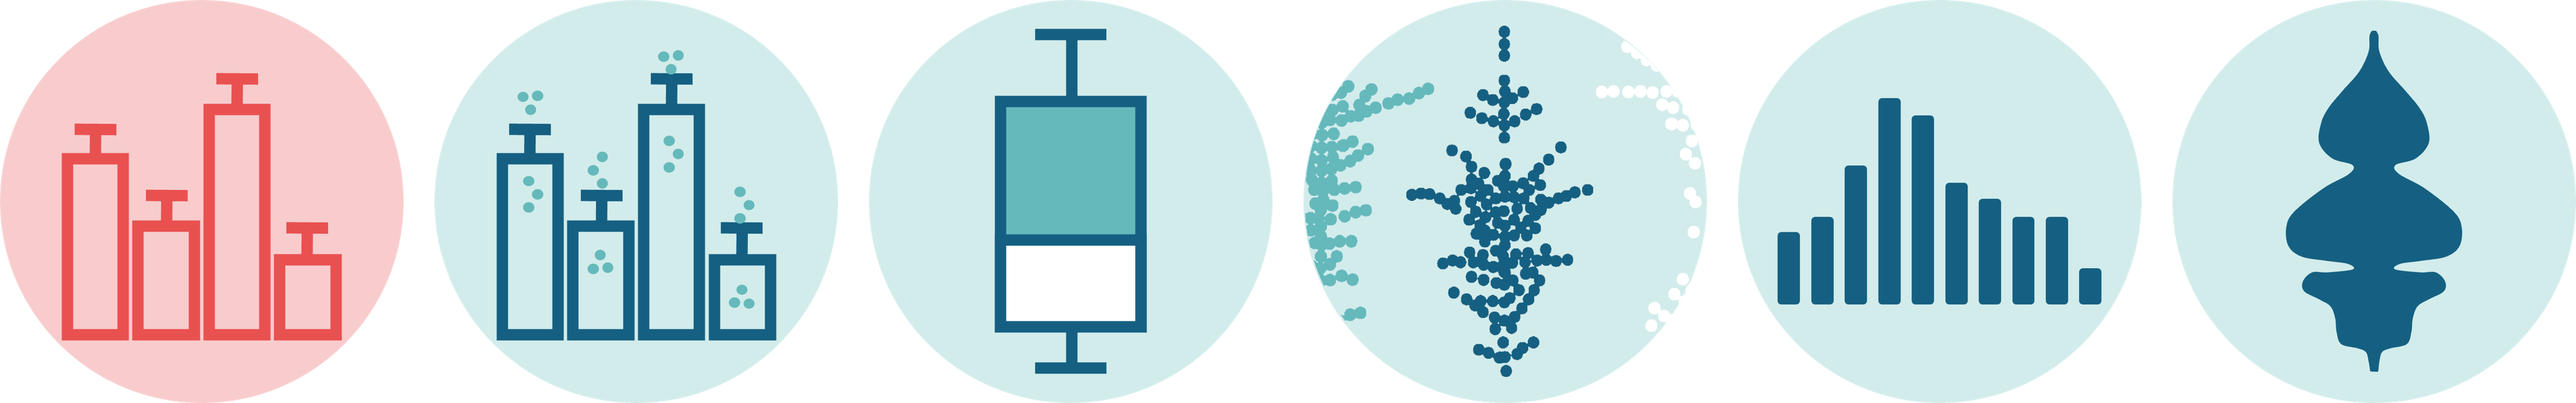
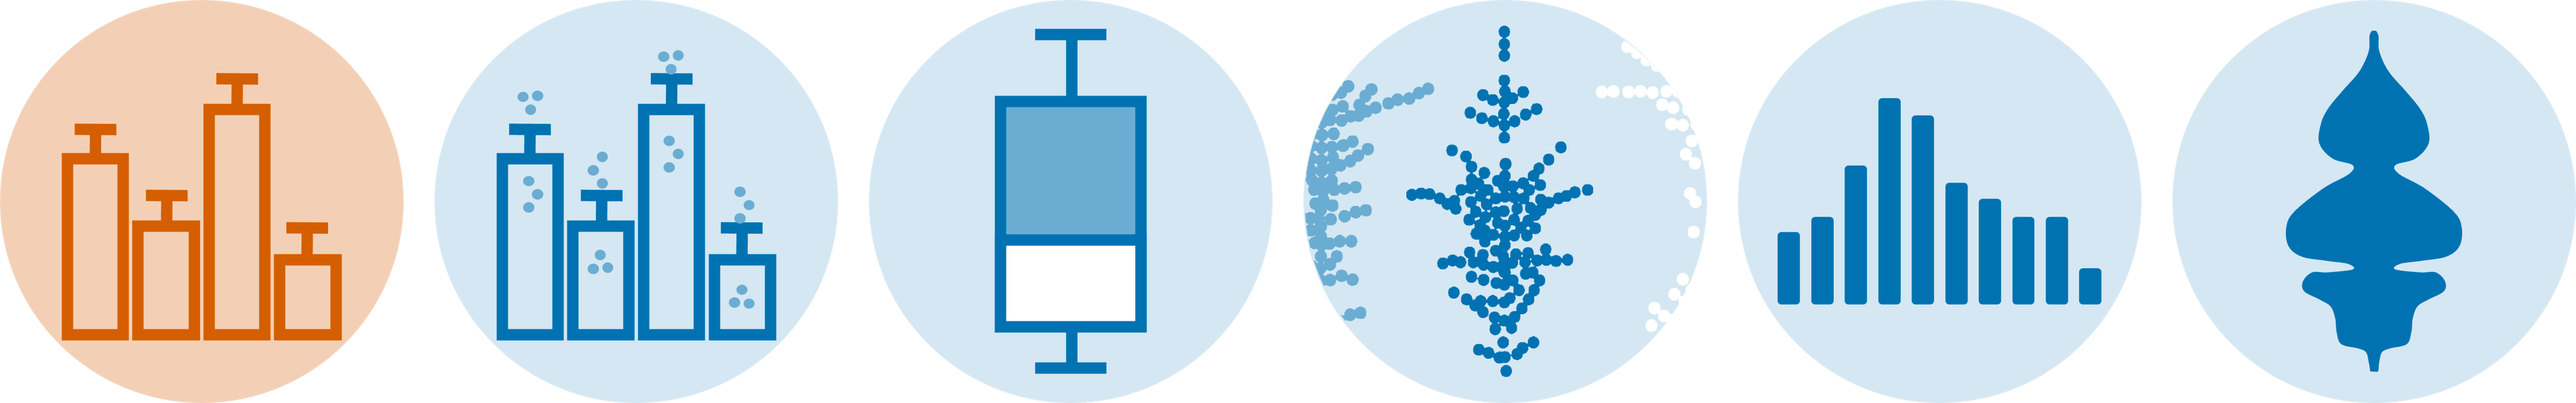
feat: update AboutDashboard and Hero components with enhanced styling
- Added specific class names to emphasize bar and informative chart labels in the AboutDashboard component.
- Updated the Hero component to include class names for better styling of the title elements.
- Introduced new CSS styles for the added classes to improve visual distinction between chart types.
- Replaced the outdated bz_graphs_for_continuous_data.png with an updated version to enhance graphical representation.

diff --git a/src/components/AboutDashboard.jsx b/src/components/AboutDashboard.jsx
@@ -16,9 +16,9 @@ export default function AboutDashboard() {
         <strong>barzooka</strong>, an automated deep-learning tool that screens PDF figures.
       </p>
       <ul>
-        <li><strong>Bar charts</strong> — the conventional mean-and-error bar format</li>
+        <li><strong className="label-bar">Bar charts</strong> — the conventional mean-and-error bar format</li>
         <li>
-          <strong>Informative charts</strong> — bars with dots, box plots, dot plots, histograms, or
+          <strong className="label-informative">Informative charts</strong> — bars with dots, box plots, dot plots, histograms, or
           violin plots
         </li>
       </ul>

diff --git a/src/styles/app.css b/src/styles/app.css
@@ -61,6 +61,10 @@ a  { color: #2c3e50; }
 }
 .hero__title { font-family: "Crimson Pro", Georgia, serif; font-size: 34px; font-weight: 700; color: #fff; margin-bottom: 14px; line-height: 1.18; }
 .hero__title em { font-style: italic; color: #76b5b2; }
+.hero__title em.hero__title-bar { color: #d55e00; }
+.hero__title em.hero__title-informative { color: #4ba3d8; }
+.label-bar { color: #d55e00; }
+.label-informative { color: #0072b2; }
 .hero__subtitle {
   font-family: "Crimson Pro", Georgia, serif;
   font-size: 15px; font-weight: 400; font-style: italic;

diff --git a/src/components/Hero.jsx b/src/components/Hero.jsx
@@ -6,7 +6,7 @@ export default function Hero() {
       <div className="hero__inner">
         <div className="hero__text">
 <h1 className="hero__title">
-            Tracking the Shift from <em>Bar Graphs</em> to <em>Informative Plots</em>
+            Tracking the Shift from <em className="hero__title-bar">Bar Graphs</em> to <em className="hero__title-informative">Informative Plots</em>
           </h1>
           <p className="hero__subtitle">
             Impact of Journal Policies on the Visualization of Continuous Data
